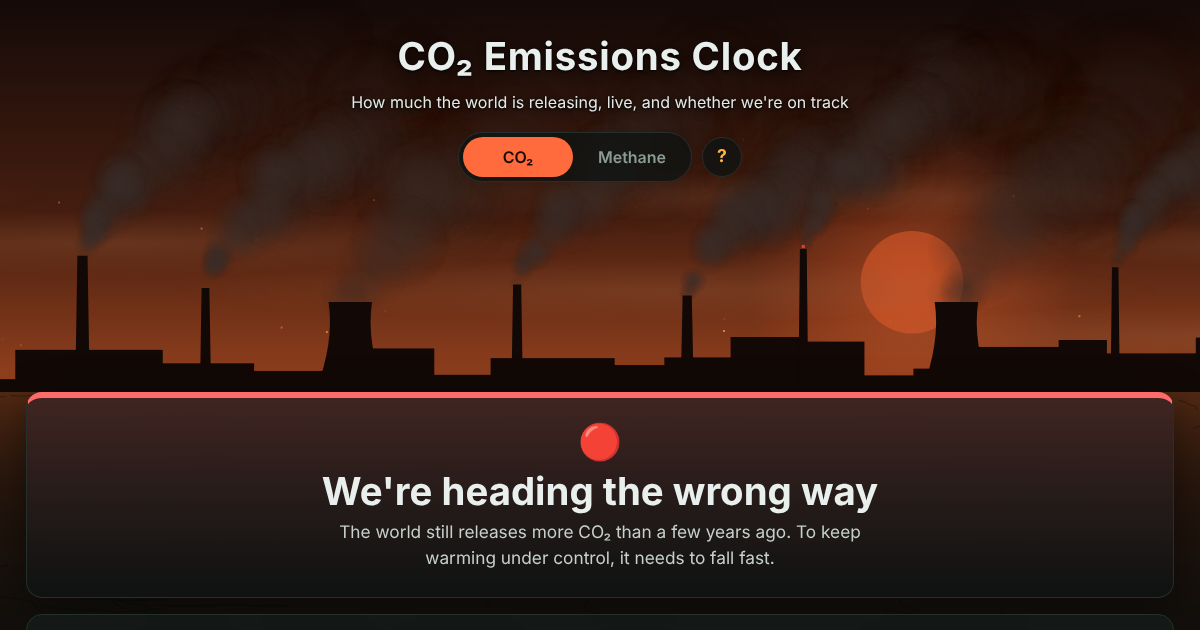
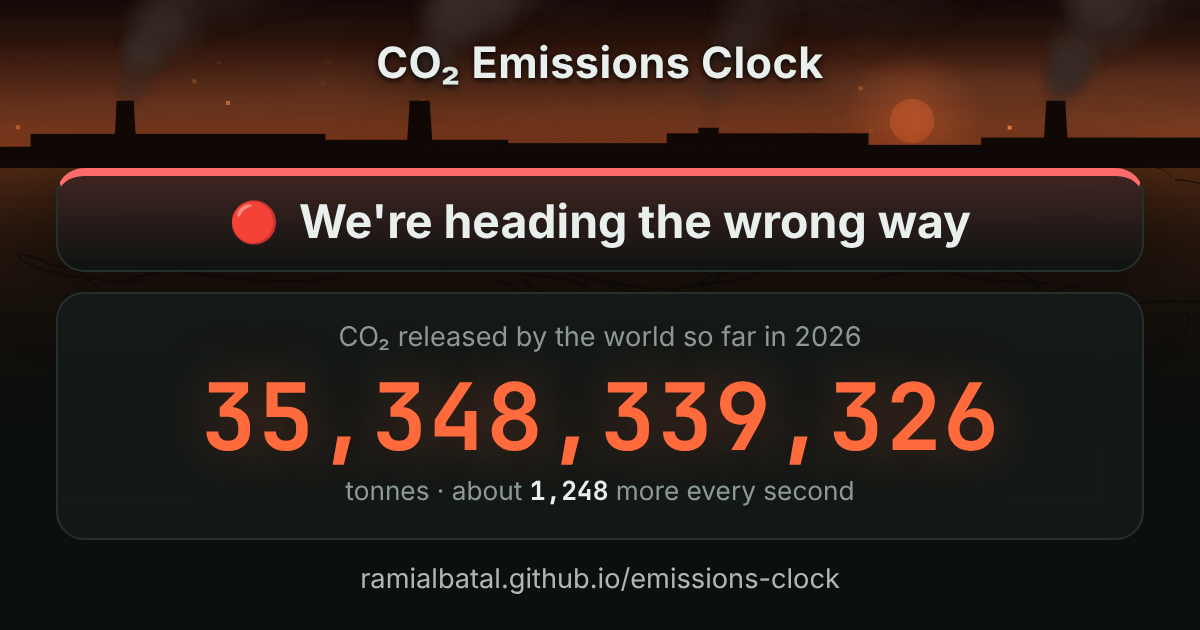
"What can I do?", anonymous visit counts and a weekly share picture; pin clock-core 1.8.0 (commit 1574546)
Claude-Session: https://claude.ai/code/session_01KMf4v8suBxyLEQeq7bKUrM

diff --git a/scripts/og-image.js b/scripts/og-image.js
@@ -1,0 +1,52 @@
+// Makes the link-preview picture (img/og-image.png, 1200x630): the clock as it stands right now, with its scene, the
+// coloured answer and the live number. Serves this repository locally and photographs the widget in card mode
+// (?embed=1&card=1) at 600x315, twice the pixel density. Run by .github/workflows/og-image.yml every week.
+//
+//   npm run og-image                             uses the pinned clock-core from jsDelivr
+//   CLOCK_CORE_DIR=../clock-core npm run og-image   serves clock-core from a local checkout instead
+import { createServer } from "node:http";
+import { readFile } from "node:fs/promises";
+import { createRequire } from "node:module";
+import { extname, join, resolve, sep } from "node:path";
+
+const require = createRequire(import.meta.url);
+const { chromium } = require("playwright");
+const ROOT = resolve(".");
+const CORE_DIR = process.env.CLOCK_CORE_DIR ? resolve(process.env.CLOCK_CORE_DIR) : null;
+const TYPES = { ".html": "text/html", ".js": "text/javascript", ".css": "text/css", ".svg": "image/svg+xml", ".png": "image/png", ".json": "application/json" };
+
+const server = createServer(async (req, res) => {
+  const path = decodeURIComponent(new URL(req.url ?? "/", "http://x").pathname);
+  const file = join(ROOT, path.endsWith("/") ? path + "index.html" : path);
+  if (file !== ROOT && !file.startsWith(ROOT + sep)) { res.writeHead(403).end(); return; }
+  try {
+    res.writeHead(200, { "content-type": TYPES[/** @type {keyof typeof TYPES} */ (extname(file))] ?? "application/octet-stream" }).end(await readFile(file));
+  } catch { res.writeHead(404).end("not found"); }
+});
+await new Promise((r) => server.listen(0, "127.0.0.1", () => r(undefined)));
+const addr = server.address();
+const base = `http://127.0.0.1:${typeof addr === "object" && addr ? addr.port : 0}/`;
+
+const proxy = process.env.HTTPS_PROXY || process.env.https_proxy;
+const browser = await chromium.launch(proxy ? { proxy: { server: proxy, bypass: "127.0.0.1,localhost" } } : {});
+const page = await browser.newPage({ viewport: { width: 600, height: 315 }, deviceScaleFactor: 2, ignoreHTTPSErrors: true, locale: "en-US" });
+if (CORE_DIR) {
+  await page.route(/cdn\.jsdelivr\.net\/gh\/ramialbatal\/clock-core@[^/]+\/(.+)$/, async (route) => {
+    const file = route.request().url().replace(/^.*clock-core@[^/]+\//, "");
+    route.fulfill({ body: await readFile(join(CORE_DIR, file)), contentType: TYPES[/** @type {keyof typeof TYPES} */ (extname(file))] });
+  });
+}
+let ok = false;
+try {
+  await page.goto(base + "?embed=1&card=1&lang=en");
+  await page.waitForFunction(() => document.body.dataset.state === "ready", null, { timeout: 60000 });
+  await page.waitForTimeout(4000);   // smoke drifts, windows light up: let the scene settle
+  await page.screenshot({ path: "img/og-image.png" });
+  ok = true;
+  console.log("img/og-image.png updated");
+} catch (err) {
+  console.error("Could not make the share picture:", err);
+}
+await browser.close();
+server.close();
+process.exit(ok ? 0 : 1);

diff --git a/index.html b/index.html
@@ -23,6 +23,7 @@
       var l = [q.get("lang"), saved].concat(browser).filter(function (x) { return ok.indexOf(x) >= 0; })[0] || "en";
       h.lang = l; h.dir = l === "ar" ? "rtl" : "ltr";
       if (q.has("embed")) h.setAttribute("data-embed", "");
+      if (q.has("card")) h.setAttribute("data-card", "");   // the weekly link-preview picture (scripts/og-image.js)
       if (l !== "en") {
         h.setAttribute("data-i18n", "pending");
         setTimeout(function () { h.removeAttribute("data-i18n"); }, 4000);   // never stay hidden
@@ -31,6 +32,8 @@
     })();
   </script>
   <meta name="robots" content="index, follow">
+  <!-- Visit counts: GoatCounter, no cookies, no personal data (clock-core startStats) -->
+  <meta name="clock-stats" content="https://ramialbatal.goatcounter.com/count">
   <meta name="google-site-verification" content="3SuQ6XzVcD3pdgYeLcflAI5zGCyUTZUtEPxxrUPsIs4" />
   <meta name="theme-color" content="#0b0f0e">
   <link rel="icon" href="img/icon.svg" type="image/svg+xml">
@@ -75,10 +78,10 @@
     ]
   }
   </script>
-  <link rel="stylesheet" href="https://cdn.jsdelivr.net/gh/ramialbatal/clock-core@cff672ad58f397a88a956ee1d9cc8266b3e36432/clock-core.css">
+  <link rel="stylesheet" href="https://cdn.jsdelivr.net/gh/ramialbatal/clock-core@157454638d667a27386df2d947d1da61b1fda596/clock-core.css">
   <link rel="stylesheet" href="css/theme.css">
   <!-- clock-core is pinned to an exact commit; to upgrade, change it here, in the CSS link above and in package.json -->
-  <script type="importmap">{ "imports": { "clock-core": "https://cdn.jsdelivr.net/gh/ramialbatal/clock-core@cff672ad58f397a88a956ee1d9cc8266b3e36432/clock-core.js" } }</script>
+  <script type="importmap">{ "imports": { "clock-core": "https://cdn.jsdelivr.net/gh/ramialbatal/clock-core@157454638d667a27386df2d947d1da61b1fda596/clock-core.js" } }</script>
   <!-- If the page code can't load (CDN down, very old browser), show the error box instead of a spinner forever -->
   <script>
     function clockLoadFailed() {

diff --git a/scripts/smoke.js b/scripts/smoke.js
@@ -97,12 +97,14 @@ for (const { query, hash, lang } of runs) {
     // Languages: the right one is on, right to left for Arabic, nothing left hidden or unfilled, same live slots.
     const lg = await page.evaluate(() => ({ lang: document.documentElement.lang, dir: document.documentElement.dir,
       pending: document.documentElement.hasAttribute("data-i18n"), ids: [...document.querySelectorAll("[id]")].map((e) => e.id).sort().join(" "),
-      picker: !!document.querySelector(".lang-pick select"), embedBtn: !!document.querySelector(".embed-open") }));
+      picker: !!document.querySelector(".lang-pick select"), embedBtn: !!document.querySelector(".embed-open"),
+      act: !!document.querySelector(".act-open") }));
     if (lg.lang !== lang) failures.push(`${name}: page language is "${lg.lang}", expected "${lang}"`);
     if (lg.dir !== (lang === "ar" ? "rtl" : "ltr")) failures.push(`${name}: text direction is "${lg.dir}"`);
     if (lg.pending) failures.push(`${name}: page still hidden waiting for its translation`);
     if (!lg.picker) failures.push(`${name}: no language picker`);
     if (!lg.embedBtn) failures.push(`${name}: no "Put this clock on your website" button`);
+    if (!lg.act) failures.push(`${name}: no "What can I do?" button`);
     if (/\{\w+\}/.test(text)) failures.push(`${name}: an unfilled {placeholder} shows on the page`);
     if (!hash && label === "desktop") {
       if (lang === "en") englishIds = lg.ids;

diff --git a/js/i18n/ar.js b/js/i18n/ar.js
@@ -145,4 +145,12 @@ export default {
   "a.safer": "الحد الأكثر أمانًا: احترار بمقدار \u2066{limit}\u2069",
   "a.upper": "الحد الأعلى: احترار بمقدار \u2066{limit}\u2069",
   "a.fastEnough": "هل تنخفض الانبعاثات بسرعة كافية؟",
+
+  // "What can I do?" (js/actions.js)
+  "act.travel.t": "تنقّل بطريقة أنظف",
+  "act.travel.x": "في المشاوير القصيرة امشِ أو استخدم الدراجة أو الحافلة أو القطار، واختر القطار بدل الرحلات الجوية القصيرة متى أمكن. يسبب النقل نحو 15% من غازات الاحتباس الحراري في العالم.",
+  "act.food.t": "قلّل هدر الطعام",
+  "act.food.x": "خطّط لوجباتك، واستفد من بقايا الطعام، وحوّل الفضلات إلى سماد. يسبب الطعام المهدَر ما بين 8 و10% من انبعاثات العالم، وحين يتعفّن في المكبّات يطلق الميثان.",
+  "act.leaders.t": "طالِب بخفض أسرع",
+  "act.leaders.x": "اطلب من ممثليك التخلي العادل والسريع عن الفحم والنفط والغاز، بدءًا بتسرّبات الميثان: يمكن تجنّب نحو 40% من ميثان الوقود الأحفوري دون أي تكلفة صافية.",
 };

diff --git a/js/i18n/fr.js b/js/i18n/fr.js
@@ -146,4 +146,12 @@ export default {
   "a.safer": "Limite la plus sûre : {limit} de réchauffement",
   "a.upper": "Limite haute : {limit} de réchauffement",
   "a.fastEnough": "Les émissions baissent-elles assez vite ?",
+
+  // "What can I do?" (js/actions.js)
+  "act.travel.t": "Se déplacer autrement",
+  "act.travel.x": "Pour les petits trajets, marchez, pédalez ou prenez le bus ou le train, et le train plutôt que l’avion sur les courtes distances quand c’est possible. Les transports causent environ 15 % des gaz à effet de serre dans le monde.",
+  "act.food.t": "Moins gaspiller",
+  "act.food.x": "Prévoyez vos repas, cuisinez les restes et compostez. La nourriture perdue ou gaspillée cause 8 à 10 % des émissions mondiales, et en pourrissant dans les décharges elle rejette du méthane.",
+  "act.leaders.t": "Demander des baisses plus rapides",
+  "act.leaders.x": "Demandez à vos élus une sortie juste et rapide du charbon, du pétrole et du gaz, en commençant par les fuites de méthane : environ 40 % du méthane des énergies fossiles pourrait être évité sans coût net.",
 };

diff --git a/js/i18n/es.js b/js/i18n/es.js
@@ -146,4 +146,12 @@ export default {
   "a.safer": "Límite más seguro: {limit} de calentamiento",
   "a.upper": "Límite superior: {limit} de calentamiento",
   "a.fastEnough": "¿Bajan las emisiones lo bastante rápido?",
+
+  // "What can I do?" (js/actions.js)
+  "act.travel.t": "Muévete de otra forma",
+  "act.travel.x": "En los trayectos cortos, camina, ve en bici o usa el autobús o el tren, y elige el tren en lugar de vuelos cortos cuando puedas. El transporte causa cerca del 15% de los gases de efecto invernadero del mundo.",
+  "act.food.t": "Desperdicia menos comida",
+  "act.food.x": "Planifica las comidas, aprovecha las sobras y haz compost. Los alimentos que se pierden o se tiran causan entre el 8 y el 10% de las emisiones del mundo, y al pudrirse en los vertederos liberan metano.",
+  "act.leaders.t": "Pide recortes más rápidos",
+  "act.leaders.x": "Pide a tus representantes una salida justa y rápida del carbón, el petróleo y el gas, empezando por las fugas de metano: cerca del 40% del metano de los combustibles fósiles podría evitarse sin coste neto.",
 };

diff --git a/js/i18n/en.js b/js/i18n/en.js
@@ -67,4 +67,12 @@ export default {
   "a.safer": "Safer limit: {limit} of warming",
   "a.upper": "Upper limit: {limit} of warming",
   "a.fastEnough": "Are emissions falling fast enough?",
+
+  // "What can I do?" (js/actions.js)
+  "act.travel.t": "Travel lighter",
+  "act.travel.x": "Walk, cycle or take the bus or train for short trips, and the train instead of short flights when you can. Transport causes about 15% of the world's greenhouse gases.",
+  "act.food.t": "Waste less food",
+  "act.food.x": "Plan meals, use leftovers and compost scraps. Food that is lost or wasted causes 8 to 10% of the world's emissions, and rotting food in landfills releases methane.",
+  "act.leaders.t": "Ask leaders for faster cuts",
+  "act.leaders.x": "Ask your representatives for a fair, fast move away from coal, oil and gas, starting with methane leaks: about 40% of the methane from fossil fuels could be avoided at no net cost.",
 };

diff --git a/js/app.js b/js/app.js
@@ -9,6 +9,7 @@
  */
 import * as C from "clock-core";
 import CFG from "./config.js";
+import actions from "./actions.js";
 import { budgetModel } from "./model.js";
 import { co2Headline, methaneHeadline, budgetStatus, paceStatus, trendBadge } from "./messages.js";
 import { emissionsScene } from "./scene.js";
@@ -346,7 +347,9 @@ window.addEventListener("hashchange", () => show(fromHash()));
 
 // Language first (the inline script in index.html chose it), so everything below is drawn in it.
 await C.startLanguage((code) => import(`./i18n/${code}.js`), document.querySelector("header.top .wrap"));
+C.startStats();
 C.wireEmbed(document.querySelector("footer.foot"));
+C.wireActions(actions);
 const scene = C.startScene(document.querySelector("canvas.scene"), emissionsScene(() => document.body.dataset.gas),
   { groundAt: document.querySelector("header.top") });
 C.wireHelp();

diff --git a/js/actions.js b/js/actions.js
@@ -1,0 +1,12 @@
+// @ts-check
+/**
+ * "What can I do?": three actions behind a button under the answer (clock-core wireActions). One for everyday life,
+ * one close to home, one to ask of leaders. Each has a source; its words are the act.<key>.t / act.<key>.x keys in
+ * js/i18n/*.js (every language). Keep claims to what the source says.
+ */
+/** @type {import("clock-core").Action[]} */
+export default [
+  { icon: "🚲", key: "travel", source: "IPCC, Sixth Assessment Report (2022)", url: "https://www.ipcc.ch/report/ar6/wg3/" },
+  { icon: "🥕", key: "food", source: "UNEP, Food Waste Index Report 2024", url: "https://www.unep.org/resources/publication/food-waste-index-report-2024" },
+  { icon: "🗳", key: "leaders", source: "IEA, Global Methane Tracker 2024", url: "https://www.iea.org/reports/global-methane-tracker-2024" },
+];

diff --git a/README.md b/README.md
@@ -10,6 +10,12 @@ A switch at the top changes gas. `#methane` in the URL opens the methane view di
 **Languages:** English, French, Spanish and Arabic. The globe at the top switches language; `?lang=fr`, `?lang=es` or
 `?lang=ar` opens one directly. Translations live in `js/i18n/`; corrections from native speakers are very welcome.
 
+**What can I do?** A button under the answer opens three evidence-based actions, each with its source (`js/actions.js`).
+
+**Privacy:** visits are counted anonymously with [GoatCounter](https://www.goatcounter.com/) (no cookies, no
+personal data). The link-preview picture (`img/og-image.png`) is refreshed every Monday by a GitHub Action
+(`npm run og-image`), so shared links show that week's answer and number.
+
 **On your own website:** the "Put this clock on your website" button at the bottom gives a one-line code for a small
 live widget (the answer and the counter), in the language and view you have open. The widget is the same page with
 `?embed=1`.

diff --git a/CONTRIBUTING.md b/CONTRIBUTING.md
@@ -34,6 +34,7 @@ The same checks run automatically on every pull request, and once a week to catc
 | `js/i18n/` | The words in every language: `en.js` holds the words used by the code; `fr.js`, `es.js` and `ar.js` translate those plus every `data-i18n` key in `index.html`. Covered by `test/i18n.test.js`. |
 | `js/messages.js` | Every plain-language message (the answer at the top, traffic lights, badges): tone plus short words. Covered by `test/messages.test.js`. |
 | `js/app.js` | Loading data, building the page, the live ticker. |
+| `js/actions.js` | "What can I do?": three sourced actions; their words are the `act.*` keys in `js/i18n/`. |
 | `js/scene.js` | The animated picture behind the header (run by clock-core's `startScene`). |
 | `css/theme.css` | Colours and styles specific to this clock. |
 | `index.html` | Page text, method section, sources. |
